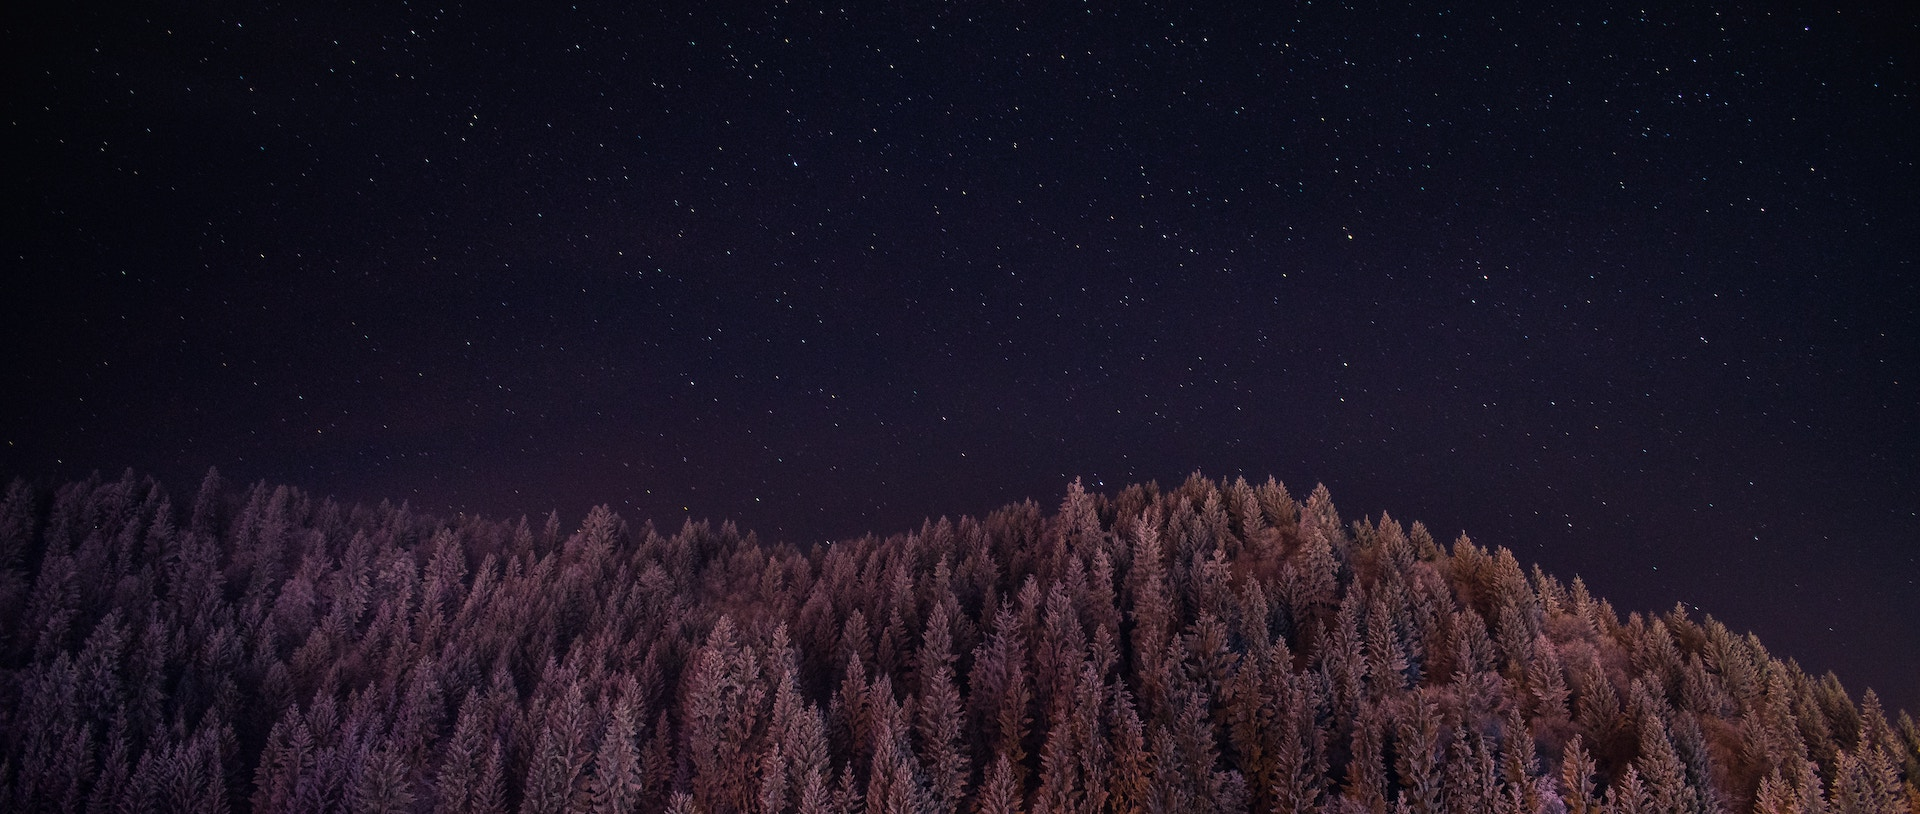
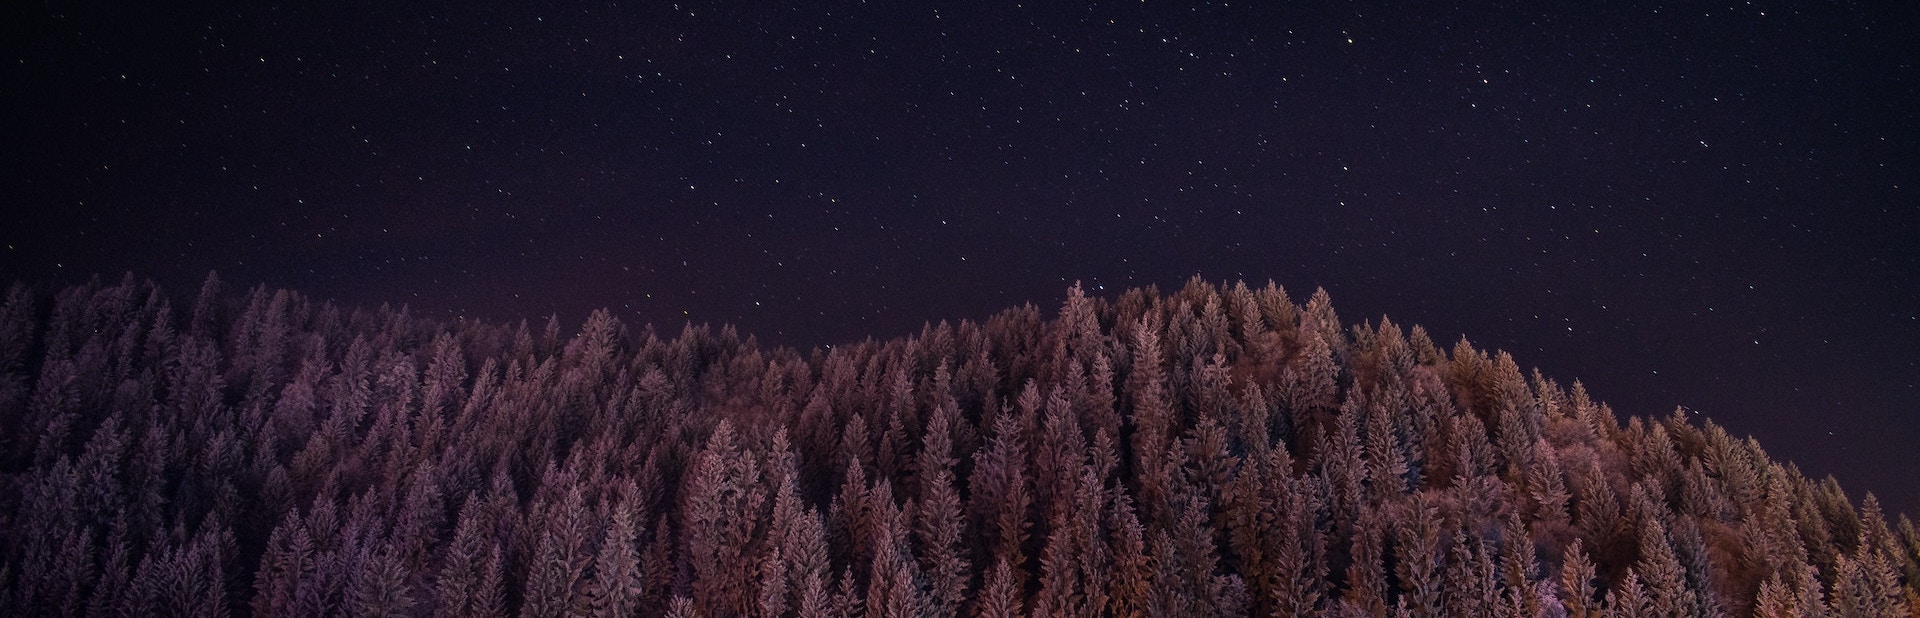
rebuilding site Tue May 19 05:41:28 JST 2020

Changed region(s): [[0.0, 0.4304, 1.0, 1.0], [0.0, 0.5227, 0.0312, 0.5534]]

diff --git a/categories/index.html b/categories/index.html
@@ -48,7 +48,7 @@
 
   
   
-  <header class="cover bg-top" style="background-image: url('https://inubushi.github.io/images/gohugo-default-sample-hero-image.jpg');">
+  <header class="cover bg-top" style="background-image: url('https://inubushi.github.io/images/nightsky.jpg');">
     <div class="bg-black-60">
       <nav class="pv3 ph3 ph4-ns" role="navigation">
   <div class="flex-l justify-between items-center center">

diff --git a/index.html b/index.html
@@ -48,7 +48,7 @@
 
   
   
-  <header class="cover bg-top" style="background-image: url('https://inubushi.github.io/images/gohugo-default-sample-hero-image.jpg');">
+  <header class="cover bg-top" style="background-image: url('https://inubushi.github.io/images/nightsky.jpg');">
     <div class="bg-black-60">
       <nav class="pv3 ph3 ph4-ns" role="navigation">
   <div class="flex-l justify-between items-center center">

diff --git a/posts/index.html b/posts/index.html
@@ -48,7 +48,7 @@
 
   
   
-  <header class="cover bg-top" style="background-image: url('https://inubushi.github.io/images/gohugo-default-sample-hero-image.jpg');">
+  <header class="cover bg-top" style="background-image: url('https://inubushi.github.io/images/nightsky.jpg');">
     <div class="bg-black-60">
       <nav class="pv3 ph3 ph4-ns" role="navigation">
   <div class="flex-l justify-between items-center center">

diff --git a/tags/index.html b/tags/index.html
@@ -48,7 +48,7 @@
 
   
   
-  <header class="cover bg-top" style="background-image: url('https://inubushi.github.io/images/gohugo-default-sample-hero-image.jpg');">
+  <header class="cover bg-top" style="background-image: url('https://inubushi.github.io/images/nightsky.jpg');">
     <div class="bg-black-60">
       <nav class="pv3 ph3 ph4-ns" role="navigation">
   <div class="flex-l justify-between items-center center">
